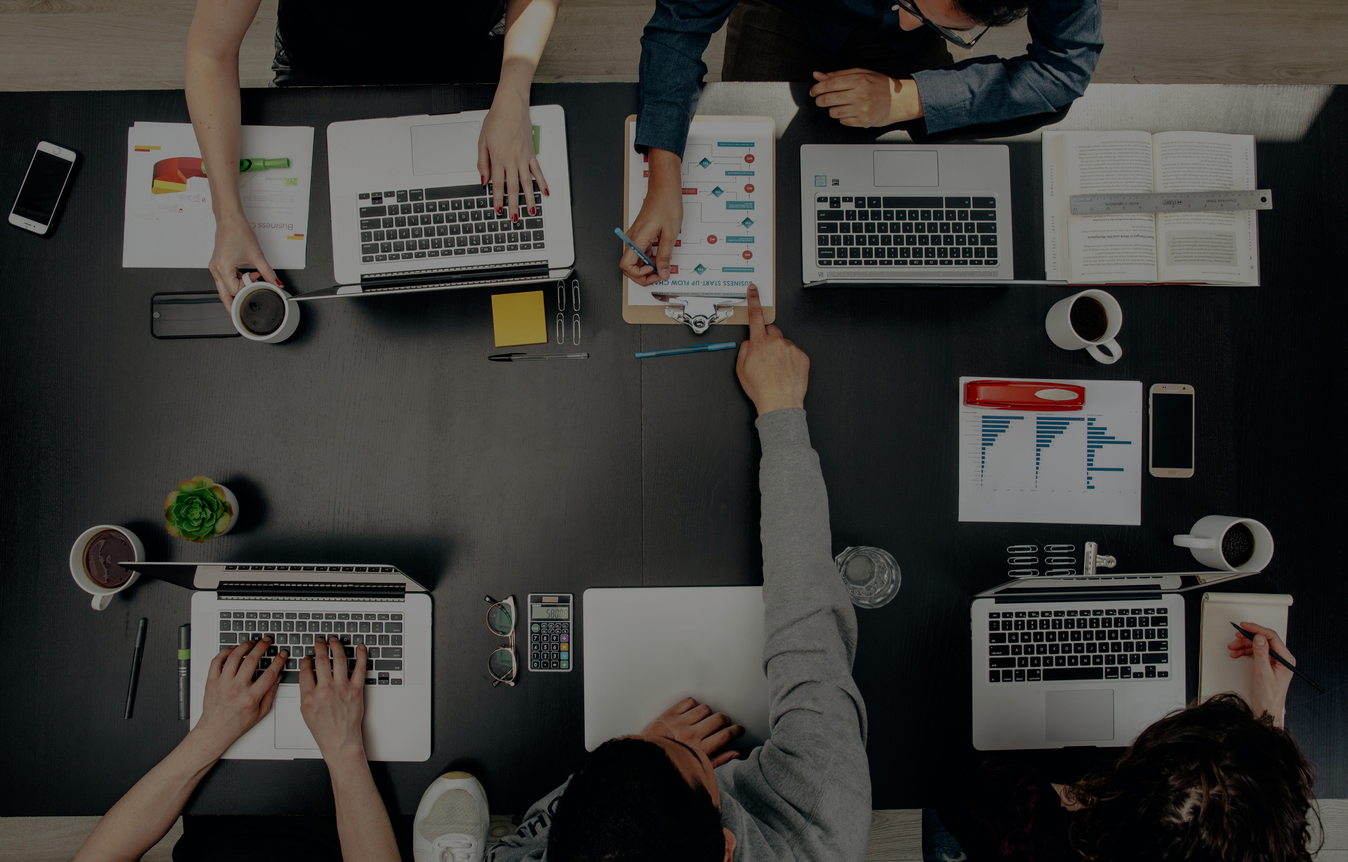
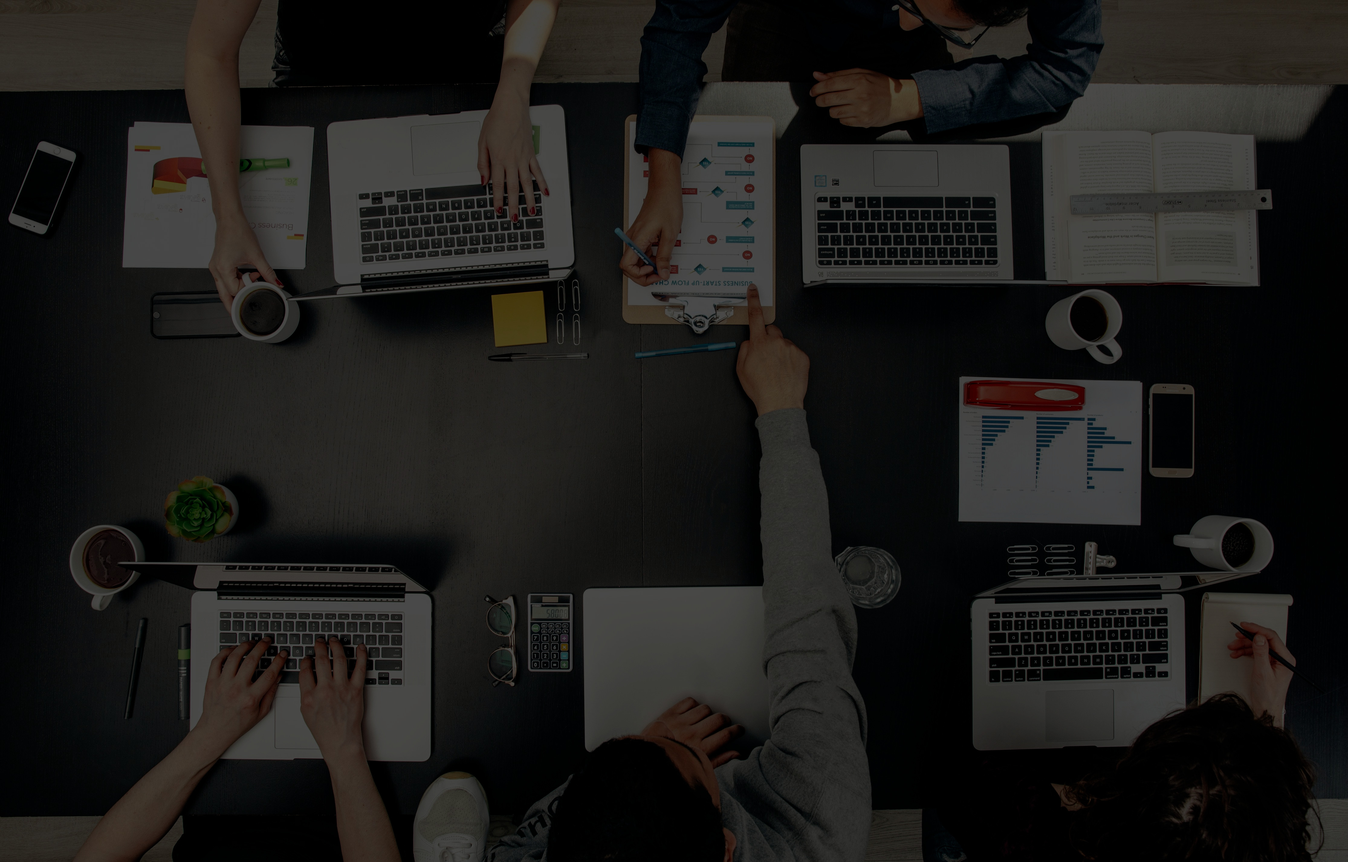
work

diff --git a/thebeginning/work/index.html b/thebeginning/work/index.html
@@ -2,6 +2,7 @@
 <!DOCTYPE html>
 <html lang="en">
 <head>
+
 	<!-- Global site tag (gtag.js) - Google Analytics -->
 	<script async src="https://www.googletagmanager.com/gtag/js?id=UA-114390036-1"></script>
 	<script>
@@ -38,6 +39,7 @@
 	<!--[if lt IE 9]>
 	<script src="../js/html5shiv.min.js"></script>
 	<script src="../js/respond.min.js"></script>
+
 	<![endif]-->
 
 	<!-- STYLESHEETS -->
@@ -109,88 +111,70 @@
 	<!-- Content -->
 	<div class="page-content">
 		<!-- Slider -->
-		<div class="main-slider style-two default-banner" id="home">
+		<div class="main-slider style-two default-banner " id="home">
 			<div class="tp-banner-container">
 				<div class="tp-banner" >
 					<div id="rev_slider_1077_1_wrapper" class="rev_slider_wrapper fullscreen-container " data-alias="scroll-effect136" data-source="gallery" style="background-color:#111111;padding:0px;">
 						<!-- START REVOLUTION SLIDER 5.3.0.2 fullscreen mode -->
 						<div id="rev_slider_1077_1" class="rev_slider fullscreenbanner" style="display:none;" data-version="5.3.0.2">
 							<ul>	<!-- SLIDE  -->
-								<li data-index="rs-3042" data-transition="slideoverhorizontal" data-slotamount="default" data-hideafterloop="0" data-hideslideonmobile="off"  data-easein="Power4.easeInOut" data-easeout="Power4.easeInOut" data-masterspeed="1000"  data-thumb="images/main-slider/jobtechdev/slide1.jpg"  data-rotate="0"  data-fstransition="fade" data-fsmasterspeed="1500" data-fsslotamount="7" data-saveperformance="off"  data-title="Big &amp; Bold" data-param1="" data-param2="" data-param3="" data-param4="" data-param5="" data-param6="" data-param7="" data-param8="" data-param9="" data-param10="" data-description="">
+								<li data-index="rs-3042" data-transition="slideoverhorizontal" data-slotamount="default" data-hideafterloop="0" data-hideslideonmobile="off"  data-easein="Power4.easeInOut" data-easeout="Power4.easeInOut" data-masterspeed="1000"   data-thumb="images/main-slider/jobtechdev/slide1.jpg"  data-rotate="0"  data-fstransition="fade" data-fsmasterspeed="1500" data-fsslotamount="7" data-saveperformance="off"  data-title="Big &amp; Bold" data-param1="" data-param2="" data-param3="" data-param4="" data-param5="" data-param6="" data-param7="" data-param8="" data-param9="" data-param10="" data-description="">
 									<!-- MAIN IMAGE -->
-									<img src="images/tech-group.jpg"  alt=""  data-bgposition="center center" data-bgfit="cover" data-bgrepeat="no-repeat" data-bgparallax="10" class="rev-slidebg" data-no-retina>
+									<img style="background: black" src="images/tech-group.jpg"  alt=""  data-bgposition="center center" data-bgfit="cover" data-bgrepeat="no-repeat" data-bgparallax="10" class="rev-slidebg" data-no-retina>
 									<!-- LAYERS -->
 
 									<!-- LAYER NR. 1 -->
-									<div class="tp-caption tp-shape tp-shapewrapper  "
-										 id="slide-3042-layer-11"
-										 data-x="['center','center','center','center']" data-hoffset="['0','0','0','0']"
-										 data-y="['bottom','bottom','bottom','bottom']" data-voffset="['0','0','0','0']"
-										 data-width="full"
-										 data-height="['400','400','400','550']"
+
+
+									<div class=""
+										 id="slide-3042-layer-7"
+										 data-x="['left','left','left','left']" data-hoffset="['55','55','33','20']"
+										 data-y="['top','top','top','top']" data-voffset="['200','200','200','200']"
+										 data-width="none"
+										 data-height="none"
 										 data-whitespace="nowrap"
 
-										 data-type="shape"
+										 data-type="button"
 										 data-basealign="slide"
 										 data-responsive_offset="off"
 										 data-responsive="off"
-										 data-frames='[{"from":"opacity:0;","speed":1500,"to":"o:1;","delay":0,"ease":"Power2.easeInOut"},{"delay":"wait","speed":1000,"to":"opacity:0;","ease":"nothing"}]'
+										 data-frames='[{"from":"y:[100%];z:0;rX:0deg;rY:0;rZ:0;sX:1;sY:1;skX:0;skY:0;opacity:0;","speed":1500,"to":"o:1;","delay":650,"ease":"Power3.easeInOut"},{"delay":"wait","speed":1000,"to":"y:50px;opacity:0;","ease":"Power2.easeInOut"},{"frame":"hover","speed":"300","ease":"Power1.easeInOut","to":"o:1;rX:0;rY:0;rZ:0;z:0;","style":"c:rgba(255, 255, 255, 1.00);bc:rgba(255, 255, 255, 1.00);bw:1px 1px 1px 1px;"}]'
 										 data-textAlign="['left','left','left','left']"
-										 data-paddingtop="[0,0,0,0]"
-										 data-paddingright="[0,0,0,0]"
-										 data-paddingbottom="[0,0,0,0]"
+										 data-paddingtop="[15,15,15,15]"
+										 data-paddingright="[50,50,50,50]"
+										 data-paddingbottom="[15,15,15,15]"
 										 data-paddingleft="[0,0,0,0]"
 
-										 style="z-index: 5;text-transform:left;background-color:rgba(0, 0, 0, 0.50);border-color:rgba(0, 0, 0, 0);border-width:0px;background:linear-gradient(to bottom,  rgba(0,0,0,0) 0%,rgba(0,0,0,0.45) 100%);cursor:default;"> </div>
+										 style="z-index: 8;margin: -10px 0px;"><div class="section-full content-inner-3 creative-work bg-img-fix" style="background-image:url(images/background/cargo/bg.jpg);" id="services">
+										<div class="container" style="opacity:1">
+											<div class="section-head text-center text-white" >
+												<h2 class="h2 text-uppercase">Jobtech</h2>
+												<div class="w3-separator  bg-primary"></div>
+												<p>The Jobtech family is always looking for interested collaborators, now and then we're also
+													looking for people to hire!</p>
+											</div>
+											<div class="row">
 
-									<!-- LAYER NR. 2 -->
-									<div class="tp-caption BigBold-Title   tp-resizeme "
-										 id="slide-3042-layer-1"
-										 data-x="['left','left','left','left']" data-hoffset="['50','50','30','17']"
-										 data-y="['bottom','bottom','bottom','bottom']" data-voffset="['110','110','180','160']"
-										 data-fontsize="['110','100','70','60']"
-										 data-lineheight="['100','90','60','60']"
-										 data-width="['none','none','none','400']"
-										 data-height="none"
-										 data-whitespace="['nowrap','nowrap','nowrap','normal']"
+											<div class="col-lg-4 col-sm-6 m-b30 mx-auto">
+												<div class="icon-bx-wraper icon-size center p-a30 draw wow fadeInUp" data-wow-duration="1.80s" data-wow-delay="0.80s">
 
-										 data-type="text"
-										 data-basealign="slide"
-										 data-responsive_offset="off"
+													<div class="icon-md  text-primary m-b20"> <span class="icon-cell"><i class="fas fa-hands-helping"></i></span> </div>
 
-										 data-frames='[{"from":"y:[100%];z:0;rX:0deg;rY:0;rZ:0;sX:1;sY:1;skX:0;skY:0;opacity:0;","mask":"x:0px;y:[100%];","speed":1500,"to":"o:1;","delay":500,"ease":"Power3.easeInOut"},{"delay":"wait","speed":1000,"to":"y:[100%];","mask":"x:inherit;y:inherit;","ease":"Power2.easeInOut"}]'
-										 data-textAlign="['left','left','left','left']"
-										 data-paddingtop="[10,10,10,10]"
-										 data-paddingright="[0,0,0,0]"
-										 data-paddingbottom="[10,10,10,10]"
-										 data-paddingleft="[0,0,0,0]"
+													<div class="icon-content">
+														<div class="w3-separator  bg-primary"></div>
+														<h5 id="8206102Title" class="w3-tilte"></h5>
 
-										 style="z-index: 6; white-space: nowrap;text-transform:left;">JOBTECH</div>
-
-									<!-- LAYER NR. 3 -->
-									<div class="tp-caption BigBold-SubTitle  "
-										 id="slide-3042-layer-4"
-										 data-x="['left','left','left','left']" data-hoffset="['55','55','33','20']"
-										 data-y="['bottom','bottom','bottom','bottom']" data-voffset="['40','1','74','58']"
-										 data-fontsize="['15','15','15','13']"
-										 data-lineheight="['24','24','24','20']"
-										 data-width="['410','410','410','280']"
-										 data-height="['60','100','100','100']"
-										 data-whitespace="normal"
-
-										 data-type="text"
-										 data-basealign="slide"
-										 data-responsive_offset="off"
-										 data-responsive="off"
-										 data-frames='[{"from":"y:[100%];z:0;rX:0deg;rY:0;rZ:0;sX:1;sY:1;skX:0;skY:0;opacity:0;","speed":1500,"to":"o:1;","delay":650,"ease":"Power3.easeInOut"},{"delay":"wait","speed":1000,"to":"y:50px;opacity:0;","ease":"Power2.easeInOut"}]'
-										 data-textAlign="['left','left','left','left']"
-										 data-paddingtop="[0,0,0,0]"
-										 data-paddingright="[0,0,0,0]"
-										 data-paddingbottom="[0,0,0,0]"
-										 data-paddingleft="[0,0,0,0]"
-
-										 style="z-index: 7; min-width: 810px; max-width: 800px; white-space: normal;text-transform:left;font-family: 'Open Sans'">The Jobtech family is always looking for interested collaborators, now and then we're also
-										looking for people to hire!</div>
+														<p id="8206102AnsokSenast">Ansök senast: </p>
+														<p id="8206102AntalPlatser">Antal platser: </p>
+														<div class="links">
+															<a id="8206102Webplats" href="" target="_blank" class="site-button outline white m-r15">Gå till annons</a>
+														</div>
+													</div>
+												</div>
+											</div>
+											</div>
+										</div>
+									</div></div>
 
 									<!-- LAYER NR. 4 -->
 
@@ -318,6 +302,7 @@
 <script src='../https://www.google.com/recaptcha/api.js'></script> <!-- Google API For Recaptcha  -->
 <script src="../js/dz.ajax.js"></script><!-- CONTACT JS  -->
 
+
 <!-- revolution JS FILES -->
 <script type="text/javascript" src="../plugins/revolution/revolution/js/jquery.themepunch.tools.min.js"></script>
 <script type="text/javascript" src="../plugins/revolution/revolution/js/jquery.themepunch.revolution.min.js"></script>
@@ -338,5 +323,6 @@
         dz_rev_slider_3();
     });	/*ready*/
 </script>
+	<script src="./js/getJobAds.js"></script>
 </body>
 </html>

diff --git a/thebeginning/work/js/getJobAds.js b/thebeginning/work/js/getJobAds.js
@@ -1,0 +1,21 @@
+$.ajax({
+    url: 'http://api.arbetsformedlingen.se/af/v0/platsannonser/8206102',
+    type: 'GET',
+    dataType: 'json',
+    headers: {
+        'Accept': 'application/json',
+        'Accept-language': 'SV'
+    },
+    contentType: 'application/json; charset=utf-8',
+    success: function (result) {
+       console.log(result)
+        $('#8206102Title').text(result.platsannons.annons.annonsrubrik.replace('/', '/ '))
+        $('#8206102AnsokSenast').append(result.platsannons.ansokan.sista_ansokningsdag.slice(0,10))
+        $('#8206102AntalPlatser').append(result.platsannons.annons.antal_platser)
+        $('#8206102Webplats').attr("href",result.platsannons.ansokan.webbplats)
+    },
+    error: function (error) {
+
+    }
+});
+

diff --git a/thebeginning/css/templete.css b/thebeginning/css/templete.css
@@ -138,7 +138,11 @@
 	padding-bottom:70px;
 }
 .content-inner-2{
-	padding-top:70px;
+	 padding-top:70px;
+	 padding-bottom:50px;
+}
+.content-inner-3{
+	padding-top:140px;
 	padding-bottom:50px;
 }
 .testimonial-five .owl-controls{
